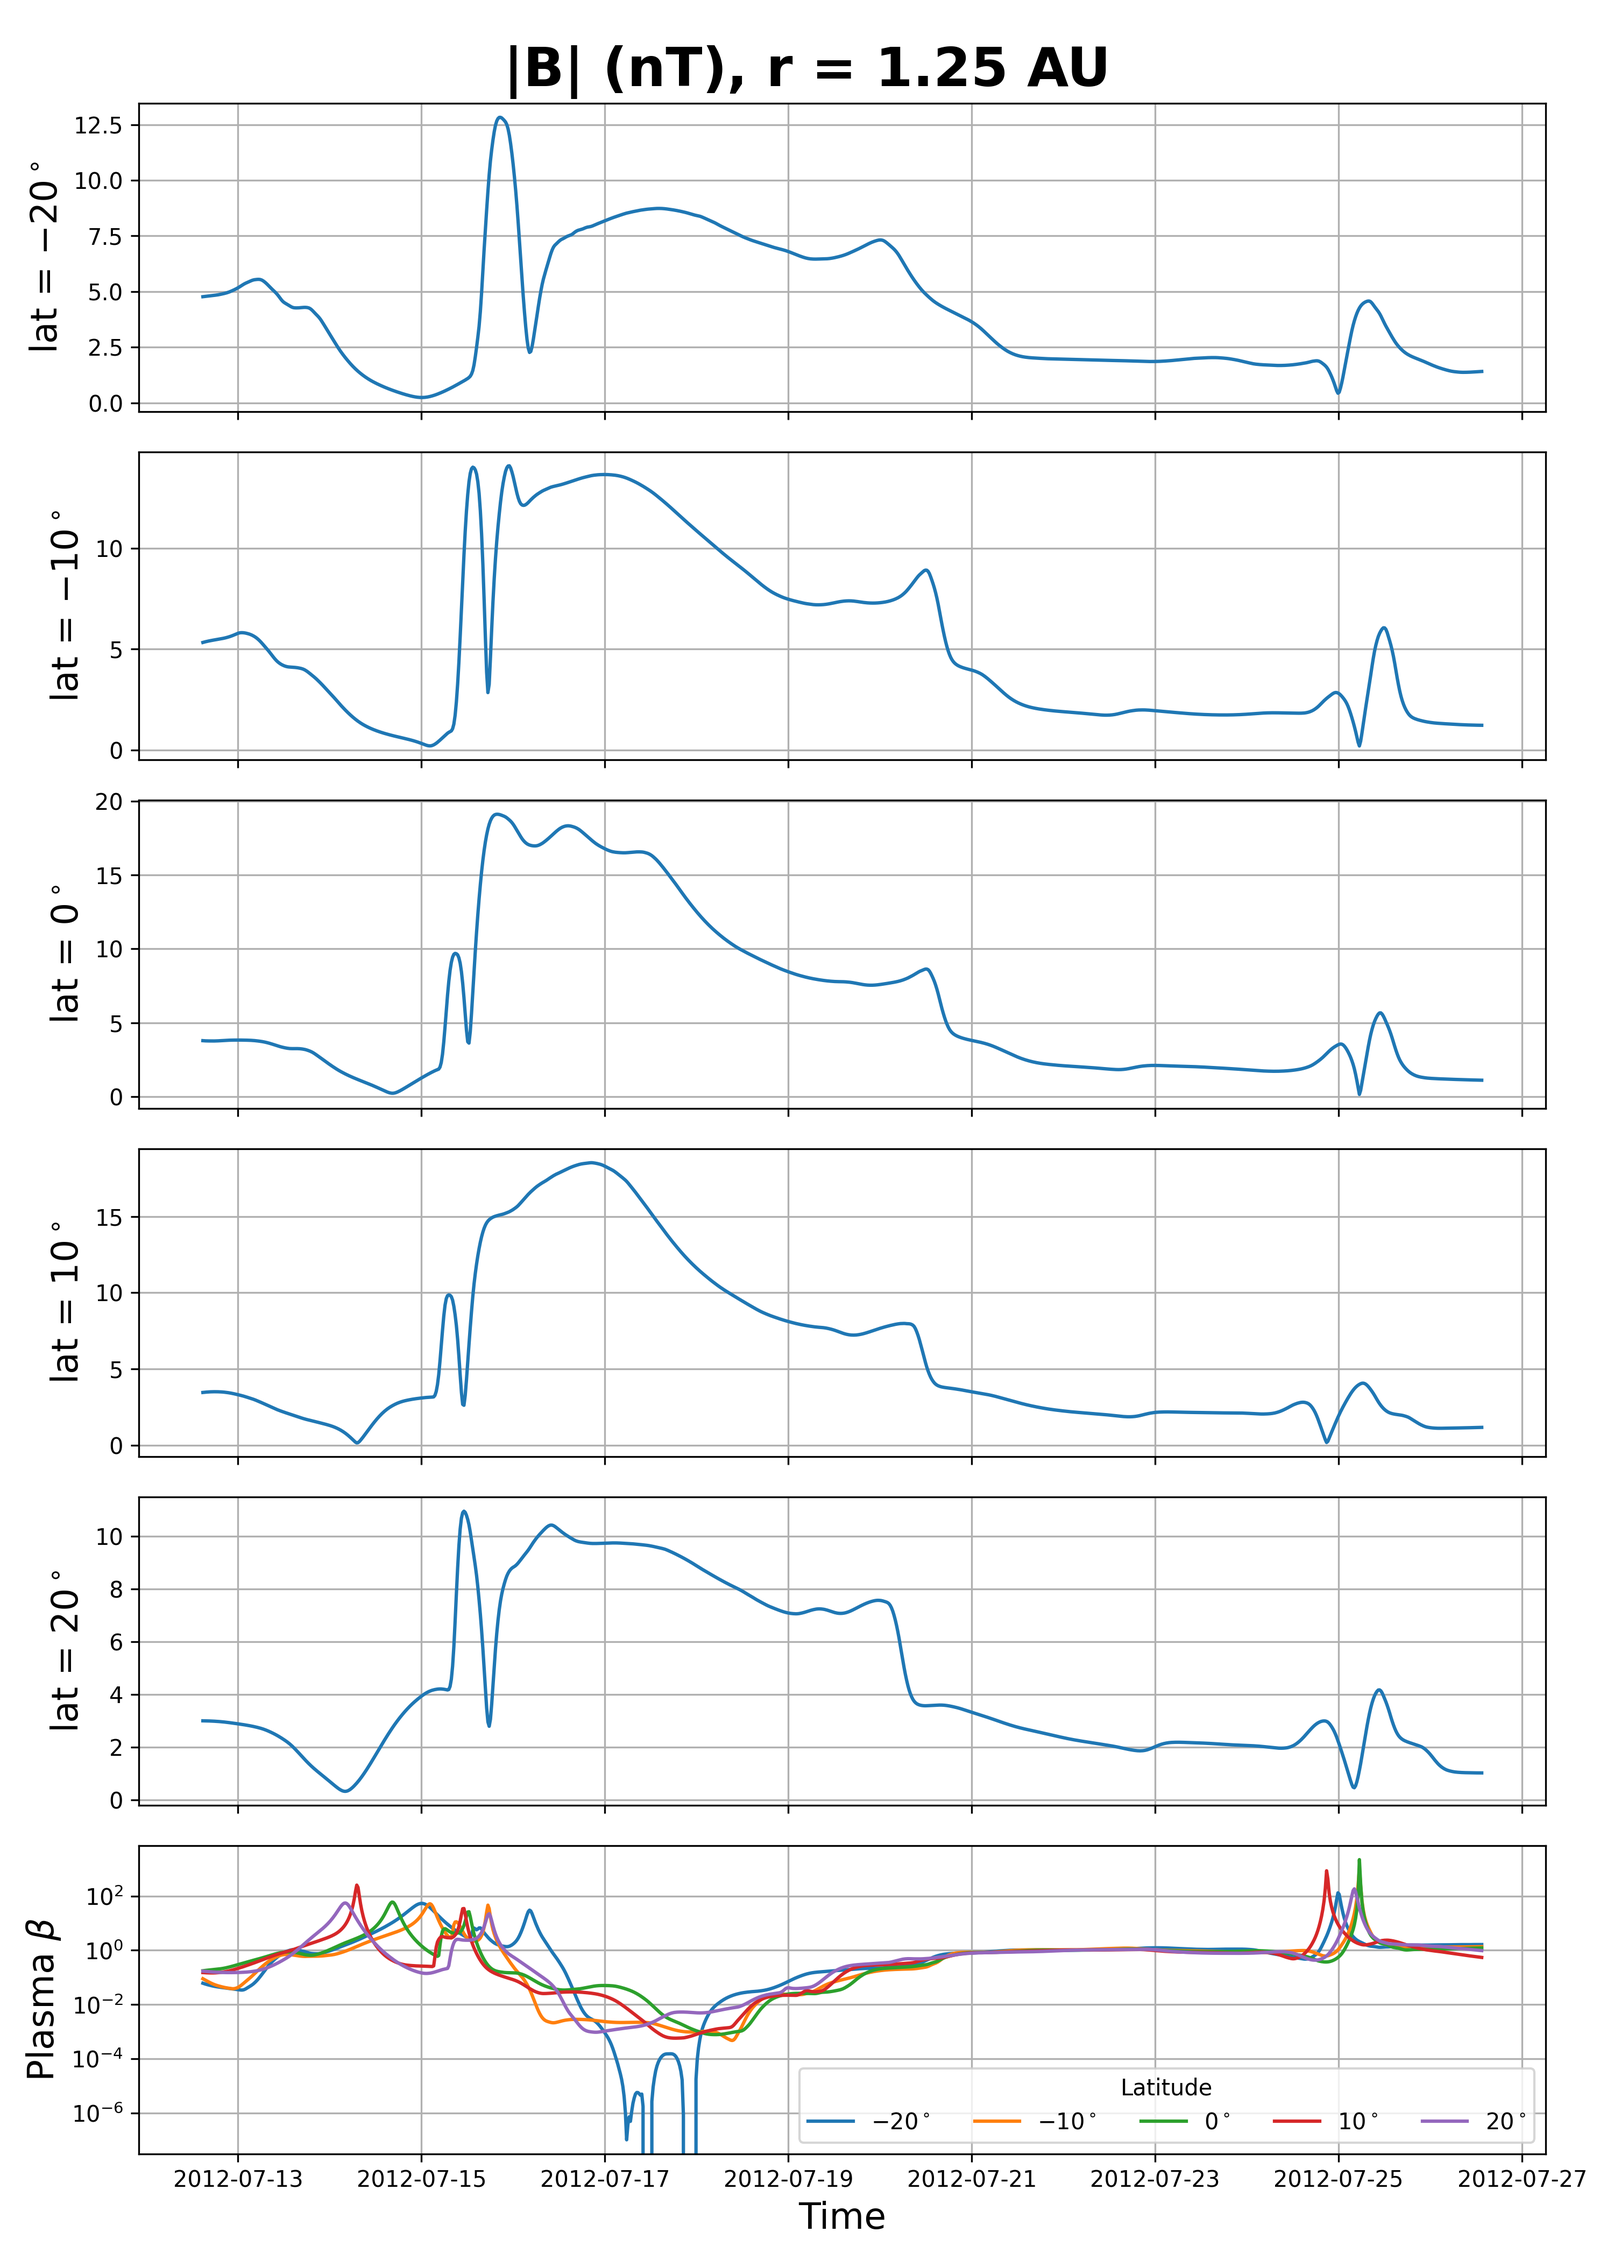
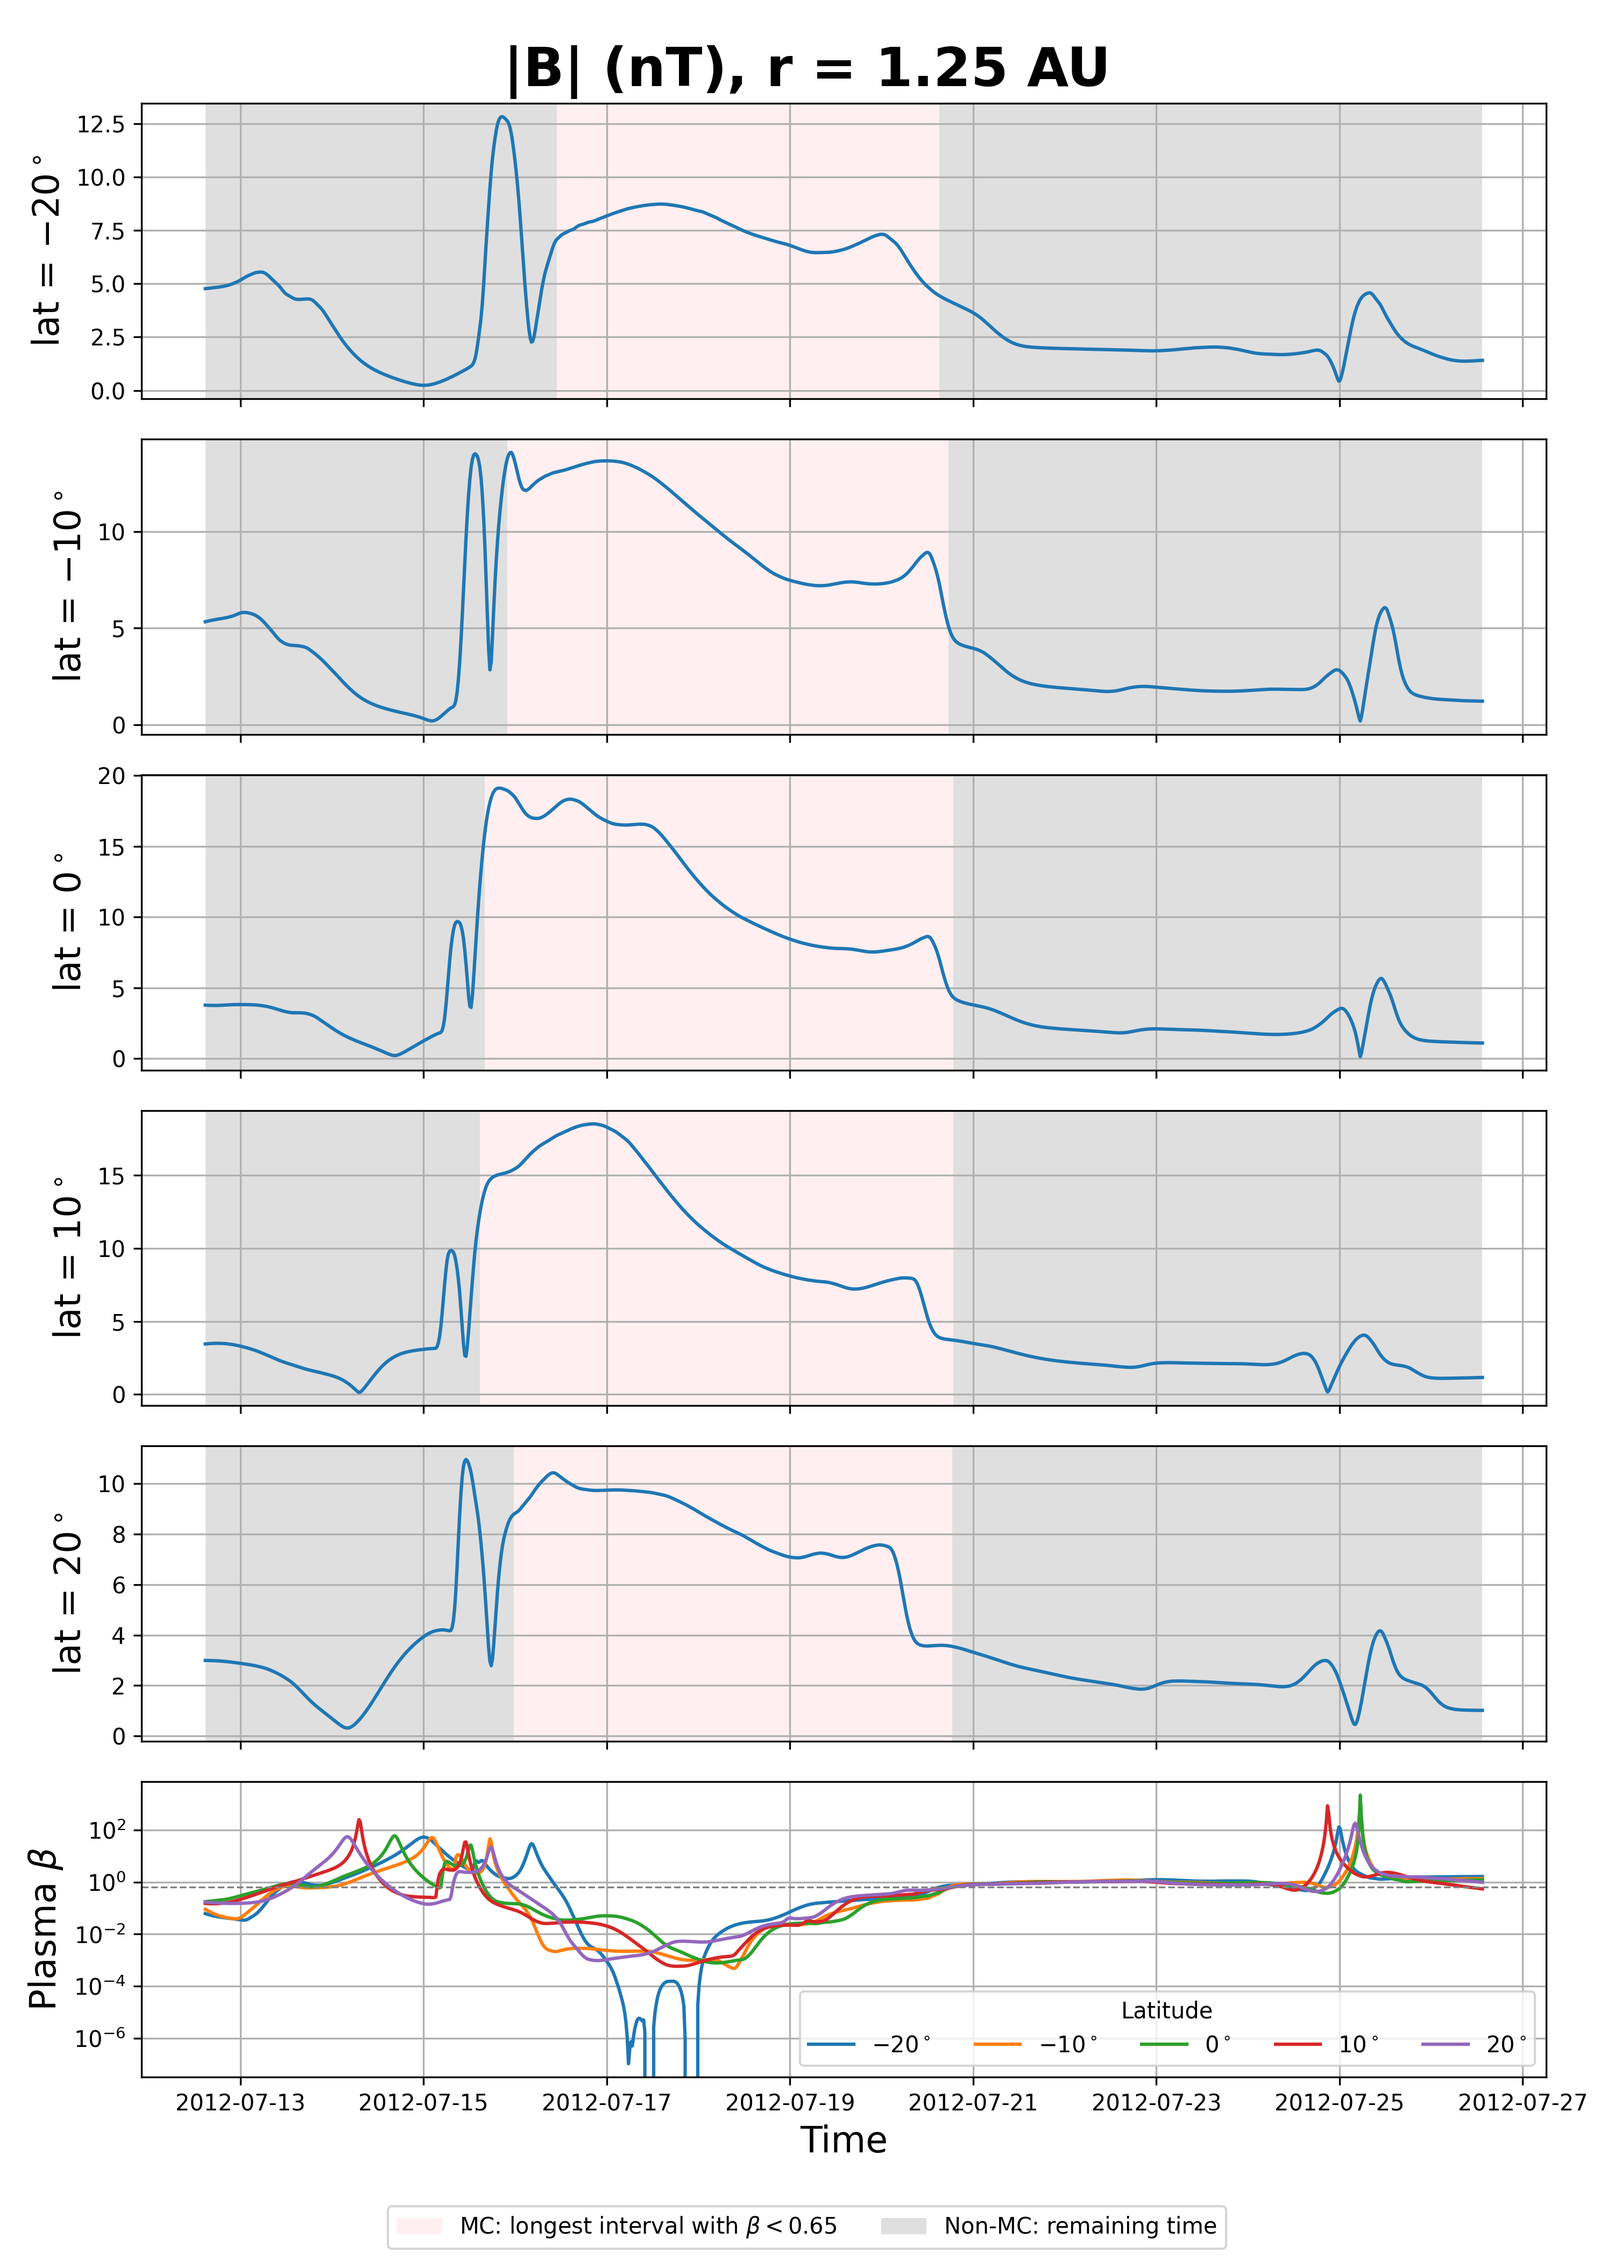
commiting on Oct 19, 2026 at 10:47 am

diff --git a/scripts/simulation_post_processing/B_predictions/Erika_2026_redo/magnetic_structure.py b/scripts/simulation_post_processing/B_predictions/Erika_2026_redo/magnetic_structure.py
@@ -21,13 +21,13 @@ from datetime import timedelta, datetime
 # pl.Config.set_tbl_rows(-1)      # polars settings to show all the rows
 
 # what variation to analyze
-variation = "radial"        # options: "radial", "longitudinal", "latitudinal"
+variation = "longitudinal"        # options: "radial", "longitudinal", "latitudinal"
 radii_lat_lon_analysis = [0.33, 1.0]
 offsets_to_plot = [-20, -10, 0, 10, 20]
-beta_threshold = 0.75        # Pink below this value; gray at or above it.
+beta_threshold = 0.65
 
 # Boltzmann constant in J/K, and mu_0 in H/m
-k_B = 1.380649e-23 
+k_B = 1.380649e-23
 mu_0 = 1.256637e-6
 
 ########## Helper functions ##########
@@ -165,7 +165,7 @@ def _nearest_axis_index(axis, requested):
     return int(np.nanargmin(np.abs(axis.astype(float) - requested)))
 
 def radius_fraction_to_au(radius_fraction):
-    """Convert the stored radial coordinate to the physical AU coordinate."""
+    """Convert the stored radial coordinate to the physical AU coordinate. Only used for CMEs"""
     simulation_inner_radius_au = 0.33
     simulation_outer_radius_au = 1.25
     stored_inner_radius = 0.33
@@ -192,6 +192,45 @@ def convert_partial_year(number):
     day_one = datetime(year,1,1)
     date = d + day_one
     return date
+
+def longest_low_beta_interval(time, beta, threshold):
+    """Return inclusive indices of the longest continuous low-beta run.
+
+    Non-finite beta breaks a run. Equal durations select the first run;
+    no qualifying samples returns None.
+    """
+    best = None
+    start = None
+    for i, value in enumerate(beta):
+        if np.isfinite(value) and value < threshold:
+            if start is None:
+                start = i
+            if best is None or time[i] - time[start] > time[best[1]] - time[best[0]]:
+                best = (start, i)
+        else:
+            start = None
+    return best
+
+def shade_mc_region(axes, probe_data):
+    """Shade this probe's longest low-beta interval pink, all other time gray."""
+    time = mdates.date2num(probe_data["time"].to_list())
+    if len(time) < 2:
+        return
+    beta = probe_data["plasma_beta"].to_numpy()
+    interval = longest_low_beta_interval(time, beta, beta_threshold)
+    spans = [(time[0], time[-1], "gray")]
+    if interval is not None:
+        start, end = interval
+        spans = [
+            (time[0], time[start], "gray"),
+            (time[start], time[end], "pink"),
+            (time[end], time[-1], "gray"),
+        ]
+    for left, right, color in spans:
+        if right > left:
+            for ax in axes:
+                ax.axvspan(left, right, color=color,
+                           alpha=0.25, linewidth=0, zorder=0)
 
 def plasma_beta(probe_data):
     """
@@ -237,9 +276,8 @@ if __name__ == "__main__":
     ########## THE RADIAL EVOLUTION PLOTS ##########
 
     if variation == "radial":
-
-        # Fill the subplots using five radial probe locations.
-        # with |B|, B_RTN (one subplot for all three components), |V|, density (N), temperature (T) 
+        # Fill the subplots using five radial probe locations. Parameters to plot are:
+        # |B|, B_RTN (one subplot for all three components), |V|, density (N), temperature (T) 
         radii_to_plot = np.linspace(0.33, 1.0, 5)
         for r in radii_to_plot:
             radius_au = radius_fraction_to_au(r)
@@ -278,18 +316,24 @@ if __name__ == "__main__":
             time = mdates.date2num(probe_data["time"].to_list())
             beta = probe_data["plasma_beta"].to_numpy()
 
-            # Shade full-height time intervals on every panel. Each interval
-            # uses its starting beta; missing beta leaves the background clear.
-            valid = np.isfinite(beta[:-1]) & np.isfinite(beta[1:])
-            for mask, color in ((valid & (beta[:-1] < beta_threshold), "pink"),
-                                (valid & (beta[:-1] >= beta_threshold), "gray")):
-                # Merge adjacent intervals to avoid visible seams.
-                edges = np.diff(np.r_[False, mask, False].astype(int))
-                for start, end in zip(np.flatnonzero(edges == 1),
-                                      np.flatnonzero(edges == -1)):
-                    for ax in axs:
-                        ax.axvspan(time[start], time[end], color=color,
-                                   alpha=0.25, linewidth=0, zorder=0)
+            # Find the longest continuous interval below the threshold.
+            largest_indices = longest_low_beta_interval(time, beta, beta_threshold)
+
+            # Shade only that interval pink; all remaining time is gray.
+            if len(time) > 1:
+                spans = [(time[0], time[-1], "gray")]
+                if largest_indices is not None:
+                    start, end = largest_indices
+                    spans = [
+                        (time[0], time[start], "gray"),
+                        (time[start], time[end], "pink"),
+                        (time[end], time[-1], "gray"),
+                    ]
+                for left, right, color in spans:
+                    if right > left:
+                        for ax in axs:
+                            ax.axvspan(left, right, color=color,
+                                       alpha=0.25, linewidth=0, zorder=0)
 
             label = f"r = {radius_au:.2f} AU"
             name = f"r_{radius_au:.2f}_AU"
@@ -301,8 +345,8 @@ if __name__ == "__main__":
             axs[5].set_yscale('log')
             axs[5].axhline(beta_threshold, color="gray", linewidth=0.8, linestyle="--")
             axs[0].legend(handles=[
-                Patch(facecolor="pink", alpha=0.25, label=rf"$\beta < {beta_threshold:g}$"),
-                Patch(facecolor="gray", alpha=0.25, label=rf"$\beta \geq {beta_threshold:g}$"),
+                Patch(facecolor="pink", alpha=0.25, label=rf"MC: longest interval of $\beta < {beta_threshold:g}$"),
+                Patch(facecolor="gray", alpha=0.25, label="Non MC region"),
             ])
 
             # set the labels and legends
@@ -371,6 +415,9 @@ if __name__ == "__main__":
                     (probe_data["Bx"]**2 + probe_data["By"]**2 + probe_data["Bz"]**2).sqrt().alias("|B|")
                 ])
 
+                probe_data = plasma_beta(probe_data)
+                shade_mc_region((axs[i], axs2[i]), probe_data)
+
                 # plot |B|, B_RTN at longitudes
                 # different subplots correspond to different longitudes
                 # Use one magnetic-field panel per longitude.
@@ -385,7 +432,6 @@ if __name__ == "__main__":
                     axs2[i].legend()
 
                 # Compare beta at every longitude in the final panel.
-                probe_data = plasma_beta(probe_data)
                 for beta_ax in (axs[-1], axs2[-1]):
                     beta_ax.plot(
                         probe_data["time"], probe_data["plasma_beta"],
@@ -399,8 +445,14 @@ if __name__ == "__main__":
                 axes[-1].set_xlabel("Time", fontsize=16)
                 axes[-1].legend(title="Longitude", ncol=len(offsets_to_plot))
                 axes[-1].set_yscale('log')
-            fig.tight_layout()
-            fig2.tight_layout()
+                axes[-1].axhline(beta_threshold, color="gray", linewidth=0.8, linestyle="--")
+            for figure in (fig, fig2):
+                figure.legend(handles=[
+                    Patch(facecolor="pink", alpha=0.25,
+                          label=rf"MC: longest interval of $\beta < {beta_threshold:g}$"),
+                    Patch(facecolor="gray", alpha=0.25, label="Non MC region"),
+                ], loc="lower center", ncol=2)
+                figure.tight_layout(rect=(0, 0.035, 1, 1))
 
             # save the figure outside the loop
             fig.savefig(output_dir / f"Longitudinal_variations_B_{name}.png", dpi=300)
@@ -447,6 +499,9 @@ if __name__ == "__main__":
                     (probe_data["Bx"]**2 + probe_data["By"]**2 + probe_data["Bz"]**2).sqrt().alias("|B|")
                 ])
 
+                probe_data = plasma_beta(probe_data)
+                shade_mc_region((axs[i], axs2[i]), probe_data)
+
                 # plot |B|, B_RTN at latitudes
                 # different subplots correspond to different latitudes
                 # Use one magnetic-field panel per latitude.
@@ -461,7 +516,6 @@ if __name__ == "__main__":
                     axs2[i].legend()
 
                 # Compare beta at every latitude in the final panel.
-                probe_data = plasma_beta(probe_data)
                 for beta_ax in (axs[-1], axs2[-1]):
                     beta_ax.plot(
                         probe_data["time"], probe_data["plasma_beta"],
@@ -475,8 +529,14 @@ if __name__ == "__main__":
                 axes[-1].set_xlabel("Time", fontsize=16)
                 axes[-1].legend(title="Latitude", ncol=len(offsets_to_plot))
                 axes[-1].set_yscale('log')
-            fig.tight_layout()
-            fig2.tight_layout()
+                axes[-1].axhline(beta_threshold, color="gray", linewidth=0.8, linestyle="--")
+            for figure in (fig, fig2):
+                figure.legend(handles=[
+                    Patch(facecolor="pink", alpha=0.25,
+                          label=rf"MC: longest interval with $\beta < {beta_threshold:g}$"),
+                    Patch(facecolor="gray", alpha=0.25, label="Non MC region"),
+                ], loc="lower center", ncol=2)
+                figure.tight_layout(rect=(0, 0.035, 1, 1))
 
             # save the figure outside the loop
             fig.savefig(output_dir / f"Latitudinal_variations_B_{name}.png", dpi=300)
